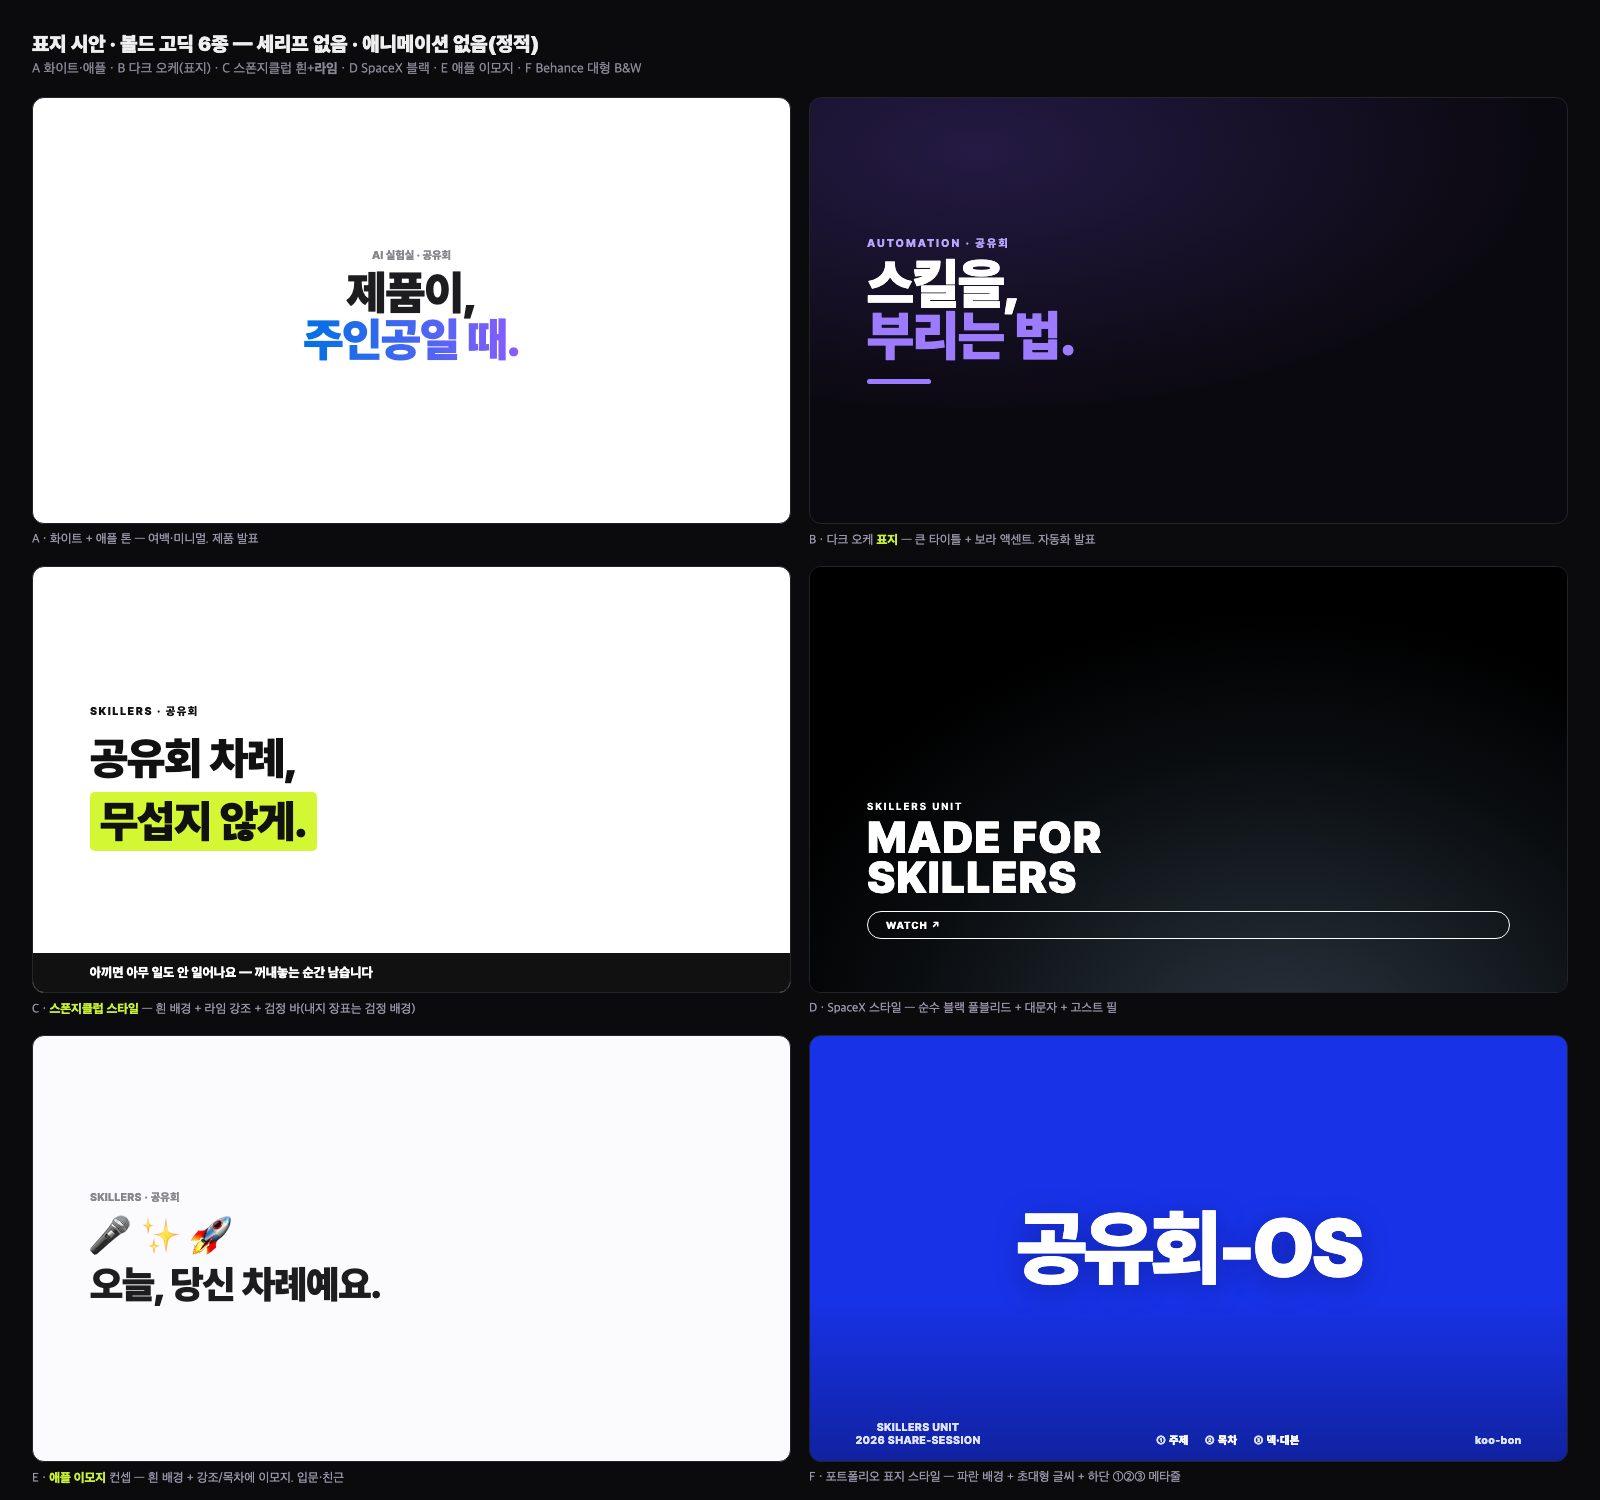
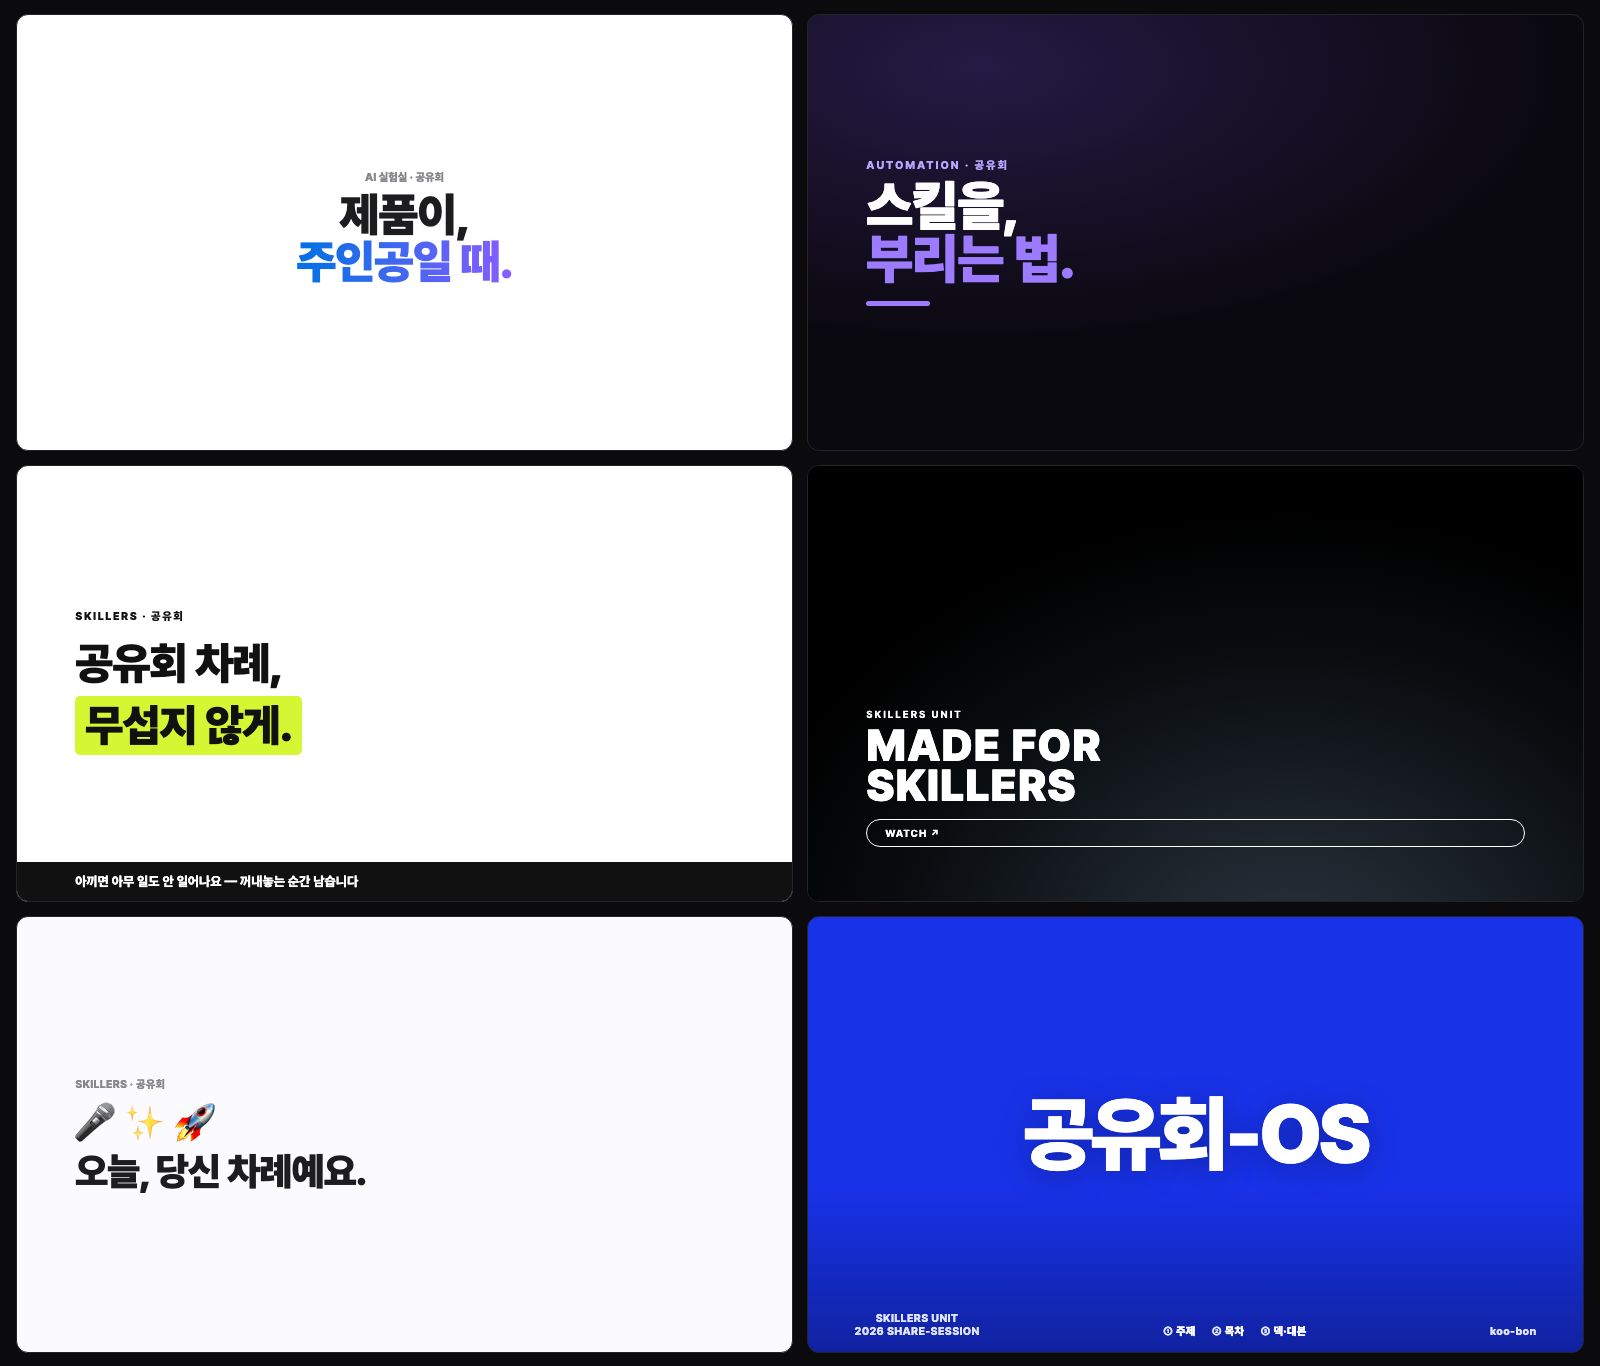
표지 시안 clean 모드(PPT 삽입용 6개만) + concepts6 갱신

diff --git a/design-concepts/04-표지-볼드고딕-6종.html b/design-concepts/04-표지-볼드고딕-6종.html
@@ -7,6 +7,10 @@
   h1{font-size:20px;font-weight:900;margin-bottom:4px}
   .lead{color:#8a8594;font-size:13.5px;margin-bottom:20px}
   .grid{display:grid;grid-template-columns:1fr 1fr;gap:18px}
+  /* clean 모드 — PPT 삽입용: 제목·설명·캡션 빼고 표지 6개만 꽉 차게 */
+  body.clean{padding:16px}
+  body.clean h1,body.clean .lead,body.clean .cap{display:none}
+  body.clean .grid{gap:14px}
   .cover{aspect-ratio:16/9;border-radius:12px;overflow:hidden;position:relative;display:flex;flex-direction:column;justify-content:center;padding:7% 7.5%;border:1px solid #23232a}
   .cap{margin-top:8px;color:#9a94a8;font-size:12.5px}
   .cap b{color:#c8f135}
@@ -56,7 +60,8 @@
   .c-port .row{position:absolute;left:0;right:0;bottom:0;z-index:3;display:flex;justify-content:space-between;align-items:flex-end;padding:14px 6%;font-size:11px;font-weight:800;letter-spacing:.03em;color:#dfe4ff}
   .c-port .row .items{display:flex;gap:16px}
   .c-port .row .items span b{color:#fff}
-</style></head><body>
+</style><script>if(location.search.indexOf('clean')>=0)document.documentElement.addEventListener('DOMContentLoaded',()=>{});</script></head><body>
+  <script>if(location.search.indexOf('clean')>=0)document.body.classList.add('clean');</script>
   <h1>표지 시안 · 볼드 고딕 6종 — 세리프 없음 · 애니메이션 없음(정적)</h1>
   <div class="lead">A 화이트·애플 · B 다크 오케(표지) · C 스폰지클럽 흰+<b>라임</b> · D SpaceX 블랙 · E 애플 이모지 · F Behance 대형 B&W</div>
   <div class="grid">
